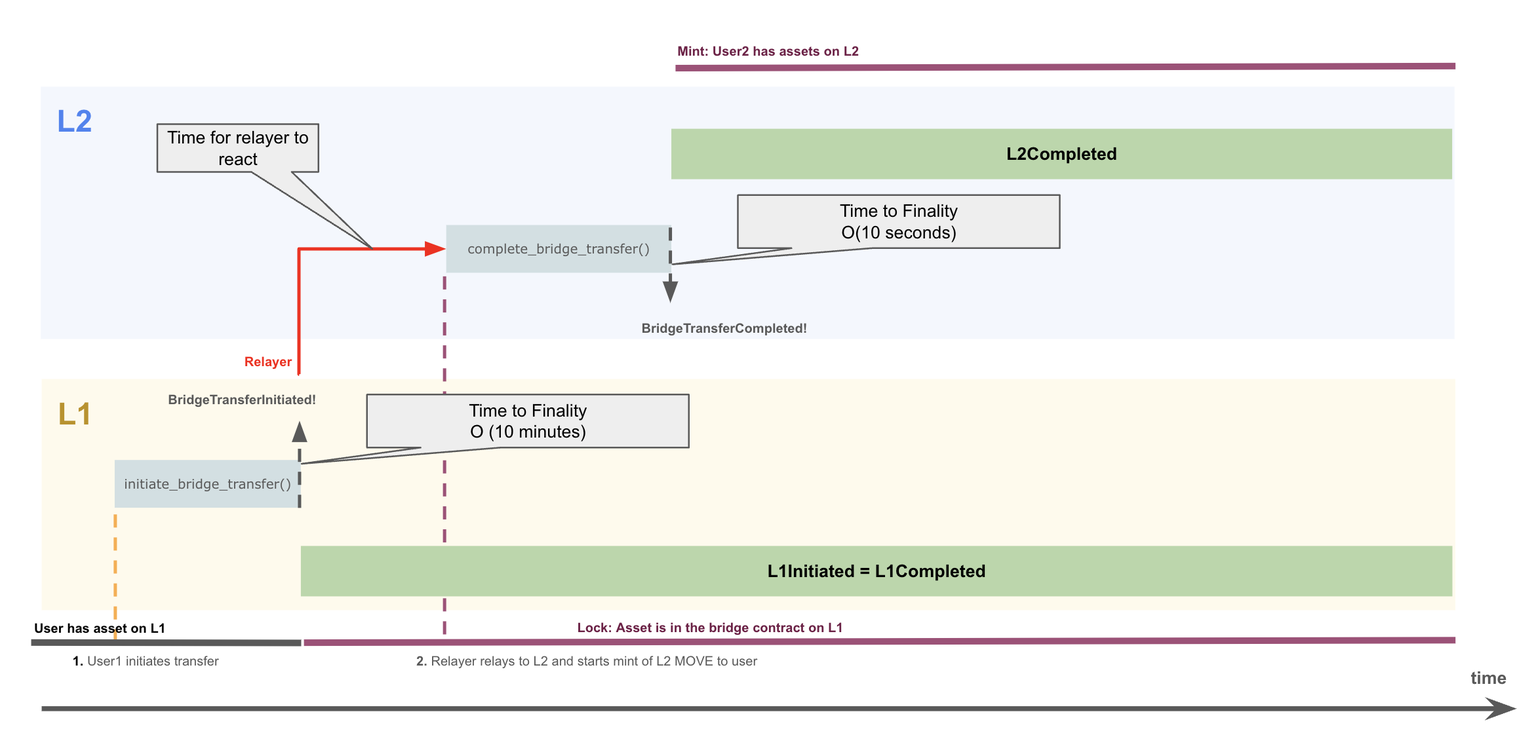
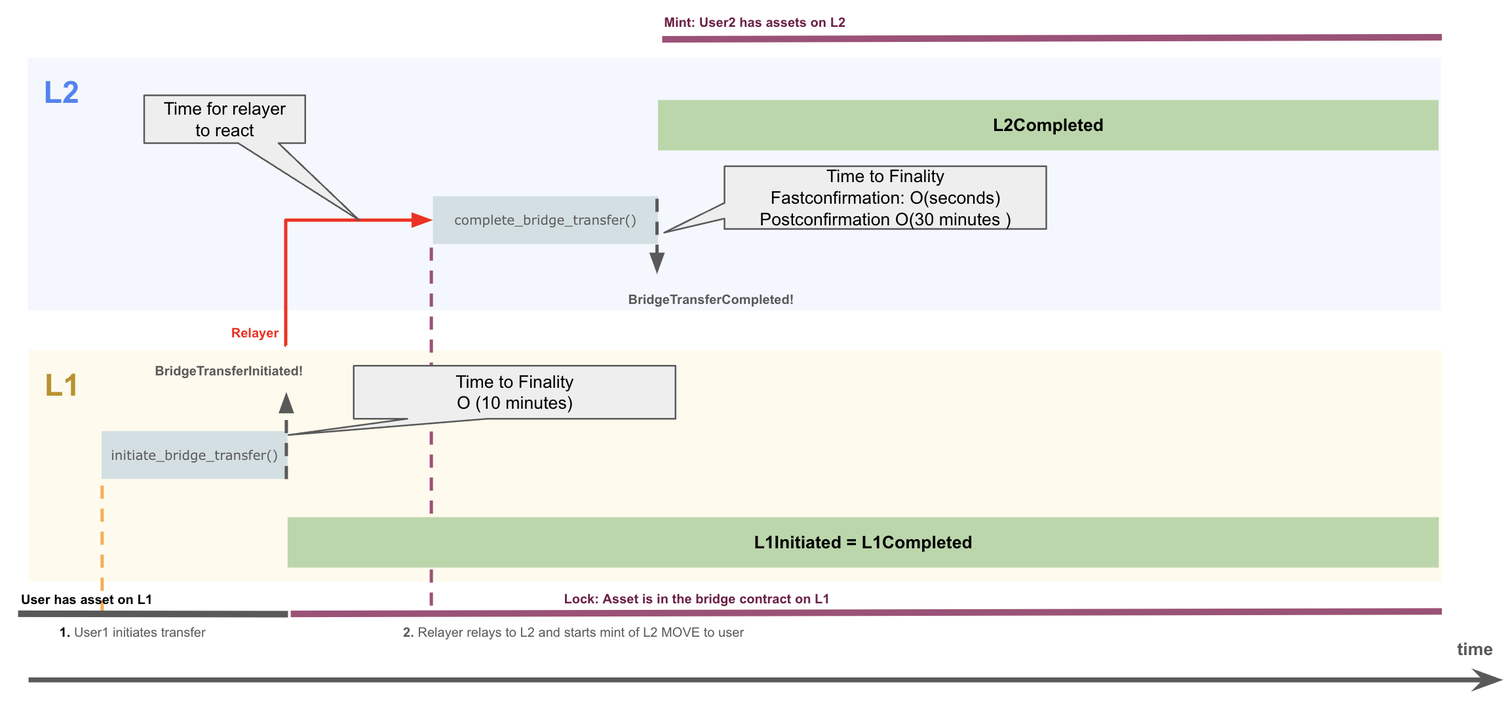
update and review

diff --git a/MIP/mip-58/README.md b/MIP/mip-58/README.md
@@ -1,35 +1,41 @@
-# MIP-58: Trusted-Relayer focused Bridge Design
+# MIP-58: Lock/Mint-type Native Bridge with trusted Relayer
 
-- **Description**: Proposes a bridge design that capitalizes on the trust-assumption on the relayer, reduces the number of messages, and potentially cost.
+- **Description**: Proposes a lock/mint-type Native Bridge that capitalizes on the trust-assumption on the Relayer.
 - **Authors**: [Primata](mailto:primata@movementlabs.xyz)
 - **Desiderata**: [MD-21](../MD/md-21)
 
 ## Abstract
 
-This proposal advocates for replacing the current HTLC-based bridge design, which requires four transactions and introduces significant complexity, with a simpler and more efficient two-transaction mechanism. The proposed design reduces costs, enhances security, minimizes user friction, and avoids potential exploits caused by refund logic. It addresses long-standing issues such as reliance on sponsored transactions, outdated audits, and unimplemented fee mechanisms speeding the process to achieve a fully functional bridge that movement yet has been unable to complete, and lots of under issues raised and still pending.
+We propose a lock/mint-type Native Bridge. The lock/mint bridge design streamlines operations, enhances security, and improves user experience, making it easier to bridge assets between chains.
 
 ## Motivation
 
-The current bridge design poses numerous challenges, including inefficiency, cost, and user frustration:
+Different types of bridges have been considered for the Native Bridge, see [MIP-60](https://github.com/movementlabsxyz/MIP/pull/60). The initial design employed a HTLC-based bridge, which has been found to lead to bad UX requires four transactions and a complex design.
+
+This proposal advocates for replacing the current HTLC-based bridge design, with a lock/mint-type bridge with a simpler and more efficient two-transaction mechanism. The proposed design reduces costs, enhances security, minimizes user friction, and avoids potential exploits caused by refund logic. It addresses long-standing issues such as reliance on sponsored transactions, outdated audits, and unimplemented fee mechanisms speeding the process to achieve a fully functional bridge that movement yet has been unable to complete, and lots of under issues raised and still pending.
+
+**Reminder: HTLC-based bridge**
+
+The HTLC-type Native Bridge design poses numerous challenges, including inefficiency, cost, and user frustration:
 
 1. **Transaction Complexity**: Requires four interactions:
    - Two by the user (initiation and finalization).
-   - One by the relayer to complete the transaction.
-   - One by a third party (tasked by the relayer) to finalize refunds in case of failure.
-   - If any of these fails, users and the protocol face losses.
+   - One by the Relayer to complete the transaction.
+   - One by a third party (tasked by the Relayer) to finalize refunds in case of failure.
+   - If any of these fails, users and the operator face losses.
 2. **High Cost**:
-   - The multi-transaction setup is expensive for both users and the protocol.
-   - Misestimations in fee calculations could result in significant losses.
-   - Example: At 16 gwei, bridging costs $20 for 10k transactions. If fees are miscalculated by 25%, this leads to a $25k loss. At 100 gwei, the loss escalates dramatically.
+   - The multi-transaction setup is expensive for both users and the operator.
+   - Estimations in fee calculation that are too far off real values could result in significant losses.
+   - Example: At 16 gwei, bridging costs \$20 for 10k transactions. If fees are miscalculated by 25\%, this leads to a \$25k loss. At 100 gwei, the loss escalates dramatically.
 3. **Unfriendly User Experience**:
-   - The current design requires users to have funds on the destination chain for finalization. This increases friction and discourages adoption.
+   - The current design requires users to have funds on the target chain for finalization. This increases friction and discourages adoption.
    - Sponsored transactions are essential to the current implementation but remain unimplemented, leaving users stranded without funds.
 4. **Security Risks**:
    - Relayer keys are a critical point of failure. This assumption cannot be avoided.
-   - Refund logic introduces vulnerabilities where attackers could exploit the rate limit and relayer downtime.
-   - For instance, if the relayer fails to finalize on the initiator, a malicious actor could:
+   - Refund logic introduces vulnerabilities where attackers could exploit the rate limit and Relayer downtime.
+   - For instance, if the Relayer fails to finalize on the initiator, a malicious actor could:
      - Take over the refund keys.
-     - Exploit both directions of the bridge (e.g., ETH→MOVE and MOVE→ETH) repeatedly, draining funds.
+     - Exploit both directions of the bridge (e.g., \$L1MOVE→\$L2MOVE and \$L2MOVE→\$L1MOVE) repeatedly, draining funds.
 5. **Maintenance Burden**:
    - The current audit is outdated and does not reflect the significant changes made since.
    - The current design requires a complete UI/UX overhaul, adding complexity and delay.
@@ -38,14 +44,33 @@ The current bridge design poses numerous challenges, including inefficiency, cos
    - Examples like the [Consensys HTLC](https://github.com/Consensys/htlc-bridge) bridge demonstrate the [pitfalls of such approaches](https://entethalliance.org/crosschain-bridges-overview-where-we-are-now/).
 7. **Infrastructure Simplification**:
    - Infrastructure is still incomplete for the current HTLC bridge design and we are struggling to find sound solutions that balance UI/UX and security. For example, [this issue](https://github.com/movementlabsxyz/movement/issues/838) regarding UX vs number of confirmations to require on the Ethereum side, is still under debate.
-   - Because of the over-engineered design, infrastructure is prone to error and we might end up being damaged by the amount of infrastructure we have not built yet and has to be built for the relayer to fully function.
+   - Because of the over-engineered design, infrastructure is prone to error and we might end up being damaged by the amount of infrastructure we have not built yet and has to be built for the Relayer to fully function.
    - We could strip down the Relayer code and achieve a final design much more quickly.
 
 The proposed lock/mint bridge design mitigates these issues, creating a safer, faster, and user-friendly bridge while maintaining operational reliability.
 
 ## Specification
 
-The lock/mint bridge design focuses on minimizing complexity and maximizing security:
+The lock/mint bridge design focuses on minimizing complexity and maximizing security. It also leverages the trust assumption on the Relayer to streamline operations and enhance user experience.
+
+### Components
+
+The following components are involved
+
+**L1 Bridge contract**
+The contract to which a user can request a bridge transfer L1→L2 and through which the Relayer completes transfers L2→L1.
+
+**L2 Bridge contract**
+The contract to which a user can request a bridge transfer L2→L1 and through which the Relayer completes transfers L1→L2.
+
+**L1 token pool**
+An address which collects \$L1MOVE that are transferred L1→L2 and from which tokens are released when transferred L2→L1.
+
+**L2 Mint contract**
+A contract capable of minting \$L2MOVE.
+
+**(Trusted) Relayer**
+An off-chain component that can read relevant events from either chain. It MAY operate nodes on both chains to learn about the completion of complete transfer transactions.
 
 ### Protocol Description
 
@@ -53,45 +78,55 @@ The bridge is a simpler version of the current implementation, which relies on t
 
 L1 -> L2
 
-1. User initiates a bridge transfer on L1. Contract stores a mapping of the user bridgeTransferIds for easy access. It transfers from the user MOVE amount to the contract. Transaction emits originator, recipient, amount and nonce.
+1. User initiates a bridge transfer on L1. Contract stores a mapping of the user `bridgeTransferId` for easy access. It transfers from the user \$L1MOVE to the contract. The transaction emits originator, recipient, amount and a `nonce`.
 2. Relayer awaits for finalization of the transaction on L1.
-3. Relayer completes the bridge on L2.
-4. Completion transaction verifies that the transaction is truthful by comparing the provided bridgeTransferId hash and the emitted values of originator, recipient, amount and nonce. Finally, it mints MOVE to the recipient address.
+3. Relayer sends a complete transaction on L2 to complete the transfer.
+4. The completion transaction verifies that the transaction is truthful by comparing the provided bridgeTransferId hash and the emitted values of originator, recipient, amount and `nonce`. Finally, it mints \$L2MOVE and sends it to the recipient address.
 5. User is notified on the frontend that their transaction has been completed.
-6. In case of a rare case of a reorg on the recipient network that leads to the transaction removal from the user perspective, the transaction can be redone and relayer multisig can handle it.
+6. The time to finality for the complete transaction on the L2 should be considered after the postconfirmation, see [MIP-37](https://github.com/movementlabsxyz/MIP/pull/37), to provide strong finality guarantees.
+
+[!REMINDER]
+Postconfirmation is an anchoring mechanism for the L2 to the L1. It provides additional reorg protection.
+
+[!NOTE]
+We may consider Fastconfirmation instead of Postconfirmation, see [MIP-65](https://github.com/movementlabsxyz/MIP/pull/65), if the L2 is extremely unlikely to reorg AND the committee is considered to be safe. However, this should be studied carefully.
 
 ![L1-L2](L1ToL2.png)
 
 L2 -> L1
 
-1. User initiates a bridge transfer on L2. Contract stores a mapping of the user nonce to bridge details for easy access. It transfers from the user MOVE amount to the contract and burns it. Transaction emits originator, recipient, amount and nonce.
-2. Relayer awaits for finalization of the transaction on L2.
-3. Relayer completes the bridge on L1.
-4. Completion transaction verifies that the transaction is truthful by comparing the provided bridgeTransferId hash and the emitted values of initiator, recipient, amount and nonce. Finally, it transfers MOVE to the recipient address, which has been previously bridged from L1.
+1. User initiates a bridge transfer on L2. Contract stores a mapping of the user `nonce` to bridge details for easy access. User transfers \$L2MOVE amount to the contract which burns it. The transaction emits originator, recipient, amount and `nonce`.
+2. Relayer awaits for finalization of the transaction on L2. This should be considered after the postconfirmation, see [MIP-37](https://github.com/movementlabsxyz/MIP/pull/37), to provide strong finality guarantees.
+3. Relayer completes the transfer on L1.
+4. Completion transaction verifies that the transaction is truthful by comparing the provided `bridgeTransferId` hash and the emitted values of initiator, recipient, amount and `nonce`. Finally, it transfers \$L1MOVE to the recipient address from the locked token pool.
 5. User is notified on the frontend that their transaction has been completed.
-6. In case of a rare caase of a reorg on the recipient network that leads to the transaction removal from the user perspective, the transaction can be redone and relayer multisig can handle it.
+
+[!NOTE]
+We may consider Fastconfirmation instead of Postconfirmation, see [MIP-65](https://github.com/movementlabsxyz/MIP/pull/65), if the L2 is extremely unlikely to reorg AND the committee is considered to be safe. However, this should be studied carefully.
 
 ![L2-L1](L2ToL1.png)
 
 ### Key Features
 
+We discuss the key features also in relation to the HTLC-based bridge to provide a comparison with the previous design.
+
 1. **Lock/Mint mechanism**:
    - **Initiation**: User sends a transaction to initiate the bridge containing recipient and amount.
-   - **Completion**: A relayer or multi-signature group completes the transfer on the counterparty contract with the originator, recipient, amount and noce for hash verification.
-   - **No Funds Requirement**: User is not required to have funds on receiving chain and we do not have to build sponsored transactions.
-   - **Delivery by Relayer**: Because the relayer delivers the funds, there is no requirement for the user to complete the transaction on receiving chain, therefore massively simplifying the user experience and allowing a smooth onboarding on the network for bridges from L1 to L2. User only has to await for the finalization on the source chain and for the relayer to perform the completion on receiving chain. This is standard practice for every major bridge in the ecosystem.
-   - **Less parameters**: Because there is no exchange of secrets between the user and relayer, we have a substantial reduction of logic.
-   - **Only Completable**: Currently we reserve a refunder role to revert transactions. This approach is different where we guarantee delivery of funds through the same party that would guarantee funds being refunded, because bridges can ONLY be completed.
+   - **Completion**: A Relayer or multi-signature group completes the transfer on the counterparty contract with the originator, recipient, amount and `nonce` for hash verification.
+   - **No Funds Requirement**: User is not required to have funds on target chain and we do not have to build sponsored transactions.
+   - **Delivery by Relayer**: Because the Relayer delivers the funds, there is no requirement for the user to complete the transaction on target chain, therefore simplifying the user experience and allowing a smooth onboarding on the network for transfers from L1 to L2. User only has to await for the finalization on the source chain and for the Relayer to perform the completion on target chain. This is standard practice for every major bridge in the ecosystem.
+   - **Less parameters**: Because there is no exchange of secrets between the user and Relayer, we have a substantial reduction of logic.
+   - **Only Completable**: Previously we reserve a refunder role to revert transactions. In this approach this is different as we guarantee delivery of funds through the same party that would guarantee funds being refunded, because bridges can ONLY be completed.
 
 2. **Consolidation of Logic**:
-   - Merge lock and completion functionality on the counterparty contract. Once lock is called, funds are already in the control of the user. On the HTLC implementation, once the timelock is over and complete on initiator has not been called, both the initiator and counterparty funds are available to the user, opening up for an exploit.
-   - Remove refund functionality entirely to eliminate associated exploits.
+   - Merge lock and completion functionality on the counterparty contract. Once lock is called, funds are already in the control of the user. In the HTLC implementation, once the timelock is over and complete on initiator has not been called, both the initiator and counterparty funds are available to the user, opening up for an exploit.
+   - Removes the refund functionality entirely to eliminate associated exploits.
 
 3. **Parameter Validation**:
    - Ensure parameter validation on the counterparty to prevent invalid transactions.
 
 4. **Relayer Redundancy**:
-   - Use two types of relayers:
+   - Use two types of Relayers:
      - **Automated Relayer**: Operated with minimal human involvement; its private key is highly secured.
      - **Multi-Signature Relayer**: Managed by the team to guarantee transaction completion in case of failures.
 
@@ -100,20 +135,19 @@ L2 -> L1
 
 6. **Enhanced Security**:
    - Avoid refund logic to close exploit windows.
-   - Protect against key compromise through key isolation or known by no parties and multi-signature relayer setups.
-   - There is no scenario where a bridge could lead to double-spending. It's either completed by relayers or not.
-   - User currently can loose its bridge `preImage` which could lead to them being unable to complete the bridge. By not relying on a `preImage` from the user, it minimizes issues. It is not a loss in security because the purpose of the `preImage` is solely for refunding.
+   - Protect against key compromise through key isolation or known by no parties and multi-signature Relayer setups.
+   - There is no scenario where a bridge could lead to double-spending. It's either completed by Relayer or not.
+   - In the HTLC bridge the user can loose its bridge `preImage` which could lead to them being unable to complete the bridge. By not relying on a `preImage` from the user, it minimizes issues. It is not a loss in security because the purpose of the `preImage` is solely for refunding.
 
 7. **Batch Processing for Downtime**:
-   - Multi-signature relayers can process multiple pending transactions in a single batch during downtime.
+   - Multi-signature Relayers can process multiple pending transactions in a single batch to compensate for downtime.
 
 8. **BridgeTransferId**:
    - Continue using unique identifier to prevent double-spending and track transactions securely.
 
-9. **Bridge Fee**:
+9. **Initial Bridge Fee proposals**:
    - On the L1 to L2 bridge, do not charge fees.
    - On the L2 to L1 bridge, charge a fee estimated by admin. It's set to the gas spent in ethereum in move. This requires an oracle and can only be implemented after oracles are live and we are able to have a maintainer that is able to set the fees on L2.
-   - Bridge fee should be a estimated by being a threshold between the current cost to perform the completeBridgeTransfer transaction on L1 (aka. `cost`) + 20%. Then, we set `cost` as the `upperbound`. The `lowerbound` is the `cost` - 10%. This prevents us from updating the fee too often and guaranteeing profit on bridges. We do have to consider gas spikes, but it should be a momentarily loss compensated by the extra charged and maintained by the `upperbound` and `lowerbound`.
 
    ```
    entry fun set_fee(caller: &signer, fee: u64) {
@@ -124,55 +158,82 @@ L2 -> L1
 
 10. **Best Practices**:
 
-- Adopt currently used bridge designs from established designs like Arbitrum, LayerZero and Blast bridges which use a relayer to finalize the bridge.
+- Adopt currently used bridge designs from established designs like Arbitrum, LayerZero and Blast bridges, which use a Relayer to finalize the bridge.
 - User is not required to have funds on counterparty contract to finalize the bridge.
 
 ## Exploits and Potential Losses
 
 1. **Key Compromise**:
-   - The compromise of the Relayer keys would lead to unauthorized transactions up to the rate-limit value. The protocol must absorb the losses and rotate Relayers.
-2. **Fee Misestimation**:
-   - Incorrect fee calculations (e.g., underestimating gas) can cause significant financial losses for the protocol.
+   - The compromise of the Relayer keys would lead to unauthorized transactions, putting the protocol at risk of unlimited value exploit.  The protocol must absorb the losses and rotate Relayers. To minimize this risk [MIP-74](https://github.com/movementlabsxyz/MIP/pull/74) proposes a rate limitation even for the Relayer.
+2. **Fee wrong estimation**:
+   - Incorrect fee calculations (e.g., underestimating gas) can cause significant financial losses for the operator.
 
 ## Reference Implementation
 
-1. **Two-Transaction Flow**:
-   - User initiates the transfer.
-   - Relayer or multisig completes the transfer with parameter validation.
-   - Current HasuraDB built internally can provide enough infrastructure for users to know if their transaction has been completed. It does not differ from the current design in any way since user is not able to see if their transaction is in-flight. We could introduce this by notifying the user if the relayer has been ordered to complete the transaction.
-   - There would be two states for user to reference, initiated or completed and those are the only two possible states. Funds can only be returned by bridging back.
+### 1. **Two-Transaction Flow**:
 
-   ![Transaction History](tx-history.png)
-   Here users would be able to see if the bridge has been completed. It's either pending or completed.
+- User initiates the transfer.
+- Relayer or multisig completes the transfer with parameter validation.
+- Current HasuraDB built internally can provide enough infrastructure for users to know if their transaction has been completed. It does not differ from the current (HTLC-based) design in any way since user is not able to see if their transaction is in-flight. We could introduce this by notifying the user if the Relayer has been ordered to complete the transaction.
+- There would be two states for user to reference, `transfer_initiated` or `transfer_completed` and those are the only two possible states. Funds can only be returned by bridging back.
 
-2. **Batch Completion**:
-   - Multisig relayers process pending transactions in batches during downtime, ensuring timely resolution.
+![Transaction History](tx-history.png)
+*Figure: Users would be able to see if the bridge has been completed. It's either pending or completed.*
 
-3. **Contract Simplification**:
-   - Combine lock and completion functionality on the counterparty contract.
-   - Remove refund logic to streamline operations and improve security.
-   - Cheaper transactions because of reduction of logic.
-   - Consolidate Initiator and Counterparty into a single contract (this might be the most dangerous thing proposed but it has already been proposed for current implementation).
+### 2. **Batch Completion**:
 
-4. **Rate Limiting**:
-   1. Single-sided rate limiting
-      - Rate limiting should be implemented on the L1 and maps each day to a budget, for each direction. Once the budget is reached on one of the directions, no more tokens can be transferred on that direction. The bridge is financially secured by an `insurance fund` maintained by Movement Labs and the maximum amount of tokens to be transferred per day, per direction is one quarter of the `insurance fund` balance. This is meant to account for the insurance fund to be able to insure all current funds already transferred and all tokens inflight, per direction.
-      - The `insurance fund` maintains the rate limit budget by adjusting its own `$MOVE` balance. It should be either the Movement Labs multisig or a new multisig 1/3 if we choose to adopt an approach that requires more direct ability by the personnel.
-      - Once the rate limit budget is reached, if no issues have been observed, operators should simply wait for the next day.
-      - If an issue has been observed, an operator should simply transfer to the bridge contract the sum of the exploit size, being the result of additional supply on L1, outside of the bridge address, and the additional supply on L2. This action covers both cases where tokens were extracted from the bridge contract on L1 or over-minted on L2. Movement Foundation should evaluate the amount of tokens that should be held by the `insurance fund` after the incident and transfer to it the amount to reach that amount.
-      - This approach is open to exploits where the relayer key is compromised. It would enable the exploiter to freely mint on L2.
-   2. Inbound rate limiting
-      - Rate limiting should be implemented on both L1 and L2 for inbound transactions only. It maps a daily budget of inbound transactions and once it's reached, the relayer cannot complete more transactions. The bridge is financially secured by two `insurance funds`, one on each side, maintained by Movement Labs, and the maximum amount of tokens to be transferred per day, per direction is half of each of its `insurance funds` balances. This is meant to account for all tokens already transferred and inflight, per direction.
-      - The `insurance funds` maintain the rate limit budgets by adjusting its own `$MOVE` balance. They should be either Movement Labs multisigs or new multisigs 1/3 if we choose to adopt an approach that requires more direct ability by the personnel.
-      - Once the rate limit budget is reached, if no issues have been observed, operators should simply wait for the next day.
-      - If an issue has been observed, operators should transfer to the bridge address the exploit amount on the L1 and burn the exploit amount on the L2. Movement Foundation should evaluate the amount of tokens that should be held by the `insurance funds` and operators should receive those tokens and bridge tokens if an exploit occurred on L2.
-      - This approach is more succetible to issues on the frontend because the frontend has to acknowledge rate limit budget and inflight tokens and inform users if the rate limit is about to be reached, not only if it has been reached.
+- Multisig Relayers could process pending transactions in batches during downtime of the standard Relayer, ensuring timely resolution.
 
-5. **Bridge Fee**:
-   - When bridging from L1 to L2, the protocol, through the Relayer, sponsors the gas cost on Movement. We do not need to make any modification on contracts or Relayer to support it.
-   - When bridging from L2 to L1, we have a few viable solutions but it's preferrable to highlight two.
-      1. Relayer sets a fee on L2, a global variable that can be set at any given time. Considering that block validation time on L1 is bigger than on L2, it becomes a viable approach since L2 can rapidly adjust the fee according to the current block and always charge an above gas cost fee to assure that despite hiccups, the bridge is net positive. $MOVE is deducted from the amount of tokens that are currently being bridged and transferred to a funds manager. Input of the user is on the final value of tokens that it should receive on the L1. This gives the protocol a very reliable way to estimate how much MOVE will be charged and feed to the user a precise amount of tokens.
-      2. Enable the Relayer to specify on the L1 completeBridgeTransfer transaction, the bridge fee per transaction. The amount is deducted from the total amount of tokens that were bridged and transferred to a funds manager. The dangerous situation is that we expect to way for over 10 minutes before the transfer can occur, and this could lead to a big disparity between the expected amout of funds and the actual amount of tokens received.
+### 3. **Contract Simplification (compared to HTLC-based Native Bridge)**:
+
+- Combine lock and completion functionality on the counterparty contract.
+- Remove refund logic to streamline operations and improve security.
+- Cheaper transactions because of reduction of logic.
+- Consolidate Initiator and Counterparty into a single contract (this might be the most dangerous thing proposed but it has already been proposed for HTLC Native Bridge implementation).
+
+### 4. **Rate Limiting designs**:
+
+Here we discuss three options for rate limiting. [MIP-74](https://github.com/movementlabsxyz/MIP/pull/74) discusses option C.
+
+[!WARNING]
+Details such as this should be moved to the MIP of Rate Limitation, and different options should be listed as "Alternatives".
+
+A. **Single-sided rate limiting (on source chain)**
+
+- Rate limiting should be implemented on the L1 and maps each day to a budget, for each direction. Once the budget is reached on one of the directions, no more tokens can be transferred on that direction.
+- The bridge is financially secured by an Insurance Fund, see [MIP-50](https://github.com/movementlabsxyz/MIP/pull/50), which determines  the maximum amount of tokens to be transferred per day, called the budget. The insurance fund is maintained by Movement Labs.
+- The budget is one quarter of the Insurance Fund balance. This is meant to account for the insurance fund to be able to insure all current funds already transferred and all tokens inflight, per direction.
+- The Insurance Fund maintains the rate limit budget by adjusting its own `$MOVE` balance. It should be either the Movement Labs multisig or a new multisig 1/3 if we choose to adopt an approach that requires more direct ability by the personnel.
+- Once the rate limit budget is reached, if no issues have been observed, operators should simply wait for the next day.
+- If an issue has been observed, an operator should simply transfer to the bridge contract the sum of the exploit size, being the result of additional supply on L1, outside of the bridge address, and the additional supply on L2. This action covers both cases where tokens were extracted from the bridge contract on L1 or over-minted on L2. Movement Foundation should evaluate the amount of tokens that should be held by the Insurance Fund after the incident and transfer to it the amount to reach that amount.
+- This approach is open to exploits where the Relayer key is compromised. It would enable the exploiter to freely mint on L2.
+
+B. **Two-sided partial rate limiting (target chain only)**
+
+- Rate limiting should be implemented on both L1 and L2 for inbound transactions only. It maps a daily budget of inbound transactions and once it's reached, the Relayer cannot complete more transactions. The bridge is financially secured by two Insurance Funds, one on each side, maintained by Movement Labs, and the maximum amount of tokens to be transferred per day, per direction is half of each of its Insurance Funds balances. This is meant to account for all tokens already transferred and inflight, per direction.
+- The Insurance Funds determine the rate limit budgets. Thus the rate limit can be adjusted by changing the `$MOVE` balance. They should be either Movement Labs multisigs or new multisigs 1/3 if we choose to adopt an approach that requires more direct ability by the personnel.
+- Once the rate limit budget is reached, if no issues have been observed, operators should simply wait for the next day.
+- If an issue has been observed, operators should transfer to the bridge address the exploit amount on the L1 and burn the exploit amount on the L2. Movement Foundation should evaluate the amount of tokens that should be held by the Insurance Funds and operators should receive those tokens and bridge tokens if an exploit occurred on L2.
+- This approach is more susceptible to issues on the frontend because the frontend has to acknowledge rate limit budget and inflight tokens and inform users if the rate limit is about to be reached, not only if it has been reached.
+
+C. **Two sided full rate limiting**
+
+- The previous approaches may break the rate limit if users can directly initiate the bridge transfer via the bridge contracts. Since we MUST guarantee the completion of transfers the rate limit on the source chain could get exceeded, leading to ever increasing backlog of transfers.
+- Therefore, rate limiting should be implemented on both L1 and L2 for inbound and outbound transactions.
+- This approach extends the previous approach.
+- It protects against exploits of the Relayer.
+- Initiating transfers get rejected on the source chain, which improves safety and fullfils rate limit requirements on the source chain.
+- On the source chain the rate limit is not related to the Insurance Fund. This opens the question who sets the rate limit on the source chain. We answer this in [MIP-74](https://github.com/movementlabsxyz/MIP/pull/74).
+
+### 5. **Bridge Fee**:
+
+[!WARNING]
+Details such as this should be moved to the MIP of Bridge Fees, and different options should be listed as "Alternatives".
+
+- When bridging from L1 to L2, the protocol, through the Relayer, sponsors the gas cost on Movement. We do not need to make any modification on contracts or Relayer to support it.
+- When bridging from L2 to L1, we have a few viable solutions but it's preferable to highlight two.
+   1. Relayer sets a fee on L2, a global variable that can be set at any given time. Considering that block validation time on L1 is bigger than on L2, it becomes a viable approach since L2 can rapidly adjust the fee according to the current block and always charge an above L1 gas cost fee to attempt that the bridge is net positive. \$L2MOVE is deducted from the amount of tokens that are currently being bridged and transferred to a funds manager. This gives the protocol a very reliable way to estimate how much MOVE will be charged and feed to the user a precise amount of tokens. However, bridge transfers cannot always immediately be initiated on the L1, e.g. if there is a surge in transactions. 
+   2. Enable the Relayer to specify on the L1 `completeBridgeTransfer` transaction, the bridge fee per transaction. The amount is deducted from the total amount of tokens that were bridged and transferred to a funds manager. The dangerous situation is that we expect is this takes much more than 10 minutes before the transfer can occur, and this could lead to a big disparity between the expected amount of funds and the actual amount of tokens received.
 
 [Solidity Implementation](https://github.com/movementlabsxyz/movement/tree/primata/simple-native-bridge)
 
@@ -182,7 +243,7 @@ L2 -> L1
 
 1. **Correctness**:
    - Simulate multiple transaction scenarios to ensure robustness.
-   - Test edge cases, including relayer downtime and batch processing.
+   - Test edge cases, including Relayer downtime and batch processing.
 
 2. **Security Implications**:
    - Conduct audits focused on the simplified design.
